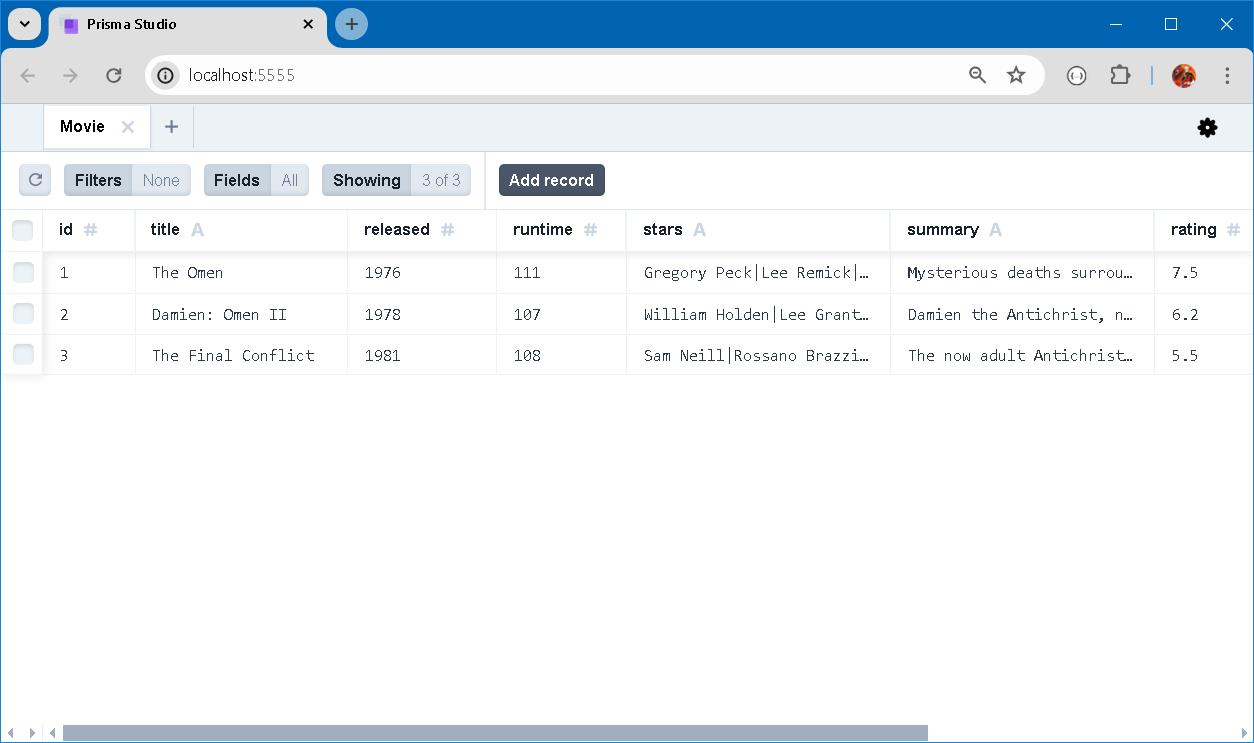
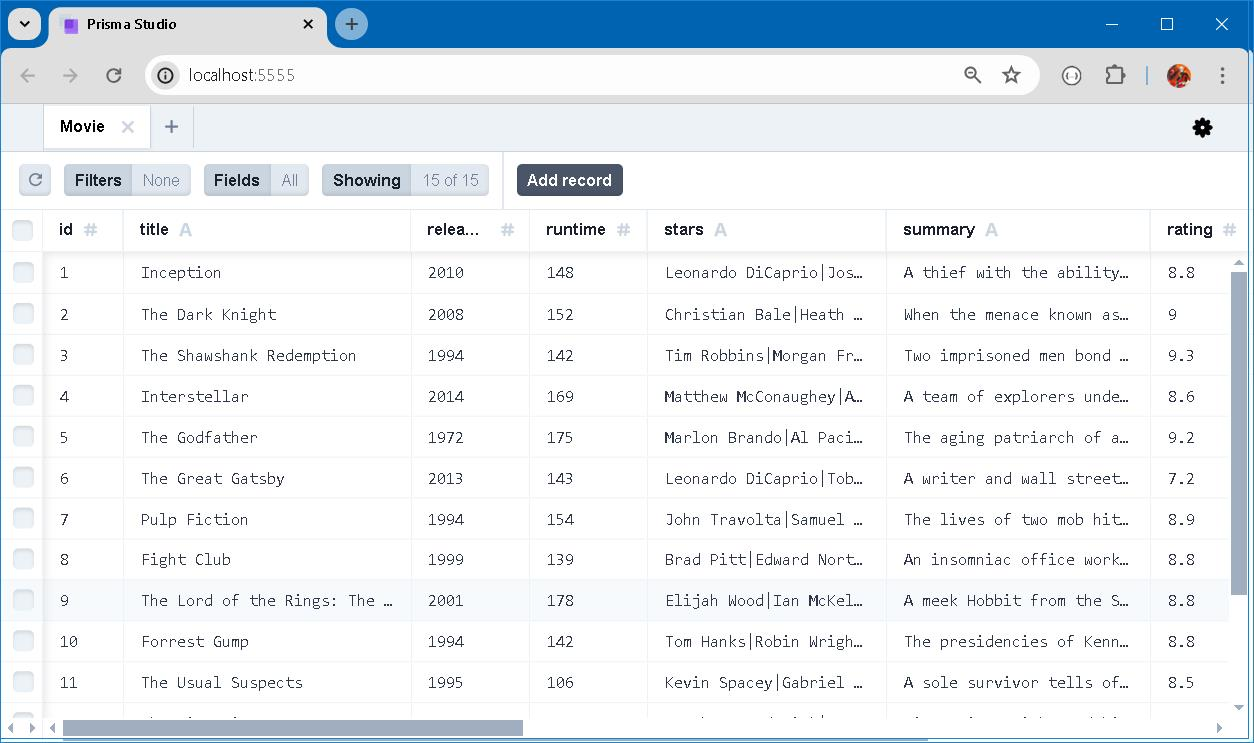
add om-orm folder

diff --git a/src/nodejs/om-orm/data/movieData.js b/src/nodejs/om-orm/data/movieData.js
@@ -1,32 +1,215 @@
 
 let movieData = [
-    {
-        title: 'The Omen',
-        released: 1976,
-        runtime: 111, 
-        stars: ['Gregory Peck', 'Lee Remick', 'Harvey Stephens'] ,
-        summary: 'Mysterious deaths surround an American ambassador. Could the child that he is raising actually be the Antichrist? The Devil\'s own son?',
-        rating: 7.5,
-        inStock: false
-    },
-    {
-        title: 'Damien: Omen II',
-        released: 1978,
-        runtime: 107, 
-        stars: ['William Holden', 'Lee Grant', 'Jonathan Scott-Taylor'] ,
-        summary: 'Damien the Antichrist, now about to turn thirteen years old, finally learns of his destiny under the guidance of an unholy disciple of Satan. Meanwhile dark forces begin to eliminate all those who suspect the child\'s true identity.',
-        rating: 6.2,
-        inStock: true
-    },
-    {
-        title: 'The Final Conflict',
-        released: 1981,
-        runtime: 108, 
-        stars: ['Sam Neill', 'Rossano Brazzi', 'Don Gordon'],
-        summary: 'The now adult Antichrist plots to eliminate his future divine opponent while a cabal of monks plot to stop him.', 
-        rating: 5.5,
-        inStock: true
-    },
-]
+  {
+    title: "Inception",
+    released: 2010,
+    runtime: 148,
+    stars: ["Leonardo DiCaprio", "Joseph Gordon-Levitt", "Elliot Page"],
+    summary: "A thief with the ability to enter people's dreams is given a task to plant an idea into a CEO's mind.",
+    rating: 8.8,
+    inStock: true,
+    director: "Christopher Nolan",
+    genre: "Sci-Fi",
+    country: "United States",
+    language: "English",
+    sequel: false
+  },
+  {
+    title: "The Dark Knight",
+    released: 2008,
+    runtime: 152,
+    stars: ["Christian Bale", "Heath Ledger", "Aaron Eckhart"],
+    summary: "When the menace known as the Joker wreaks havoc and chaos on the people of Gotham, Batman must accept one of the greatest psychological and physical tests of his ability to fight injustice.",
+    rating: 9.0,
+    inStock: true,
+    director: "Christopher Nolan",
+    genre: "Action",
+    country: "United States",
+    language: "English",
+    sequel: true
+  },
+  {
+    title: "The Shawshank Redemption",
+    released: 1994,
+    runtime: 142,
+    stars: ["Tim Robbins", "Morgan Freeman", "Bob Gunton"],
+    summary: "Two imprisoned men bond over several years, finding solace and eventual redemption through acts of common decency.",
+    rating: 9.3,
+    inStock: true,
+    director: "Frank Darabont",
+    genre: "Drama",
+    country: "United States",
+    language: "English",
+    sequel: false
+  },
+  {
+    title: "Interstellar",
+    released: 2014,
+    runtime: 169,
+    stars: ["Matthew McConaughey", "Anne Hathaway", "Jessica Chastain"],
+    summary: "A team of explorers undertakes a space journey through a wormhole in search of a new habitable planet.",
+    rating: 8.6,
+    inStock: true,
+    director: "Christopher Nolan",
+    genre: "Sci-Fi",
+    country: "United States",
+    language: "English",
+    sequel: false
+  },
+  {
+    title: "The Godfather",
+    released: 1972,
+    runtime: 175,
+    stars: ["Marlon Brando", "Al Pacino", "James Caan"],
+    summary: "The aging patriarch of an organized crime dynasty transfers control of his clandestine empire to his reluctant son.",
+    rating: 9.2,
+    inStock: true,
+    director: "Francis Ford Coppola",
+    genre: "Crime",
+    country: "United States",
+    language: "English",
+    sequel: true
+  },
+  {
+    title: "The Great Gatsby",
+    released: 2013,
+    runtime: 143,
+    stars: ["Leonardo DiCaprio", "Tobey Maguire", "Carey Mulligan"],
+    summary: "A writer and wall street trader, Nick, finds himself drawn to the past and lifestyle of his millionaire neighbor, Jay Gatsby.",
+    rating: 7.2,
+    inStock: true,
+    director: "Baz Luhrmann",
+    genre: "Drama",
+    country: "United States",
+    language: "English",
+    sequel: false
+  },
+  {
+    title: "Pulp Fiction",
+    released: 1994,
+    runtime: 154,
+    stars: ["John Travolta", "Samuel L. Jackson", "Uma Thurman"],
+    summary: "The lives of two mob hitmen, a boxer, a gangster's wife, and a pair of diner bandits intertwine in four tales of violence and redemption.",
+    rating: 8.9,
+    inStock: true,
+    director: "Quentin Tarantino",
+    genre: "Crime",
+    country: "United States",
+    language: "English",
+    sequel: false
+  },
+  {
+    title: "Fight Club",
+    released: 1999,
+    runtime: 139,
+    stars: ["Brad Pitt", "Edward Norton", "Helena Bonham Carter"],
+    summary: "An insomniac office worker and a devil-may-care soapmaker form an underground fight club that evolves into something much, much more.",
+    rating: 8.8,
+    inStock: true,
+    director: "David Fincher",
+    genre: "Drama",
+    country: "United States, Germany",
+    language: "English",
+    sequel: false
+  },
+  {
+    title: "The Lord of the Rings: The Fellowship of the Ring",
+    released: 2001,
+    runtime: 178,
+    stars: ["Elijah Wood", "Ian McKellen", "Orlando Bloom"],
+    summary: "A meek Hobbit from the Shire and eight companions set out on a journey to destroy the powerful One Ring and save Middle-earth from the Dark Lord Sauron.",
+    rating: 8.8,
+    inStock: true,
+    director: "Peter Jackson",
+    genre: "Adventure, Drama, Fantasy",
+    country: "United States, New Zealand",
+    language: "English",
+    sequel: true
+  },
+  {
+    title: "Forrest Gump",
+    released: 1994,
+    runtime: 142,
+    stars: ["Tom Hanks", "Robin Wright", "Gary Sinise"],
+    summary: "The presidencies of Kennedy and Johnson, the Vietnam War, the Watergate scandal, and other historical events unfold through the perspective of an Alabama man with an IQ of 75, whose only desire is to be reunited with his childhood sweetheart.",
+    rating: 8.8,
+    inStock: true,
+    director: "Robert Zemeckis",
+    genre: "Drama, Romance",
+    country: "United States",
+    language: "English",
+    sequel: false
+  },
+  {
+    title: "The Usual Suspects",
+    released: 1995,
+    runtime: 106,
+    stars: ["Kevin Spacey", "Gabriel Byrne", "Chazz Palminteri"],
+    summary: "A sole survivor tells of the twisty events leading up to a horrific gun battle on a boat, which began when five criminals met at a seemingly random police lineup.",
+    rating: 8.5,
+    inStock: true,
+    director: "Bryan Singer",
+    genre: "Crime, Mystery, Thriller",
+    country: "United States, Germany",
+    language: "English, Hungarian, Spanish, French",
+    sequel: false
+  },
+  {
+    title: "The Lion King",
+    released: 1994,
+    runtime: 88,
+    stars: ["Matthew Broderick", "Jeremy Irons", "James Earl Jones"],
+    summary: "Lion prince Simba and his father are targeted by his bitter uncle, who wants to ascend the throne himself.",
+    rating: 8.5,
+    inStock: true,
+    director: "Roger Allers, Rob Minkoff",
+    genre: "Animation, Adventure, Drama",
+    country: "United States",
+    language: "English, Swahili, Xhosa, Zulu",
+    sequel: true
+  },
+  {
+    title: "The Avengers",
+    released: 2012,
+    runtime: 143,
+    stars: ["Robert Downey Jr.", "Chris Evans", "Scarlett Johansson"],
+    summary: "Earth's mightiest heroes must come together and learn to fight as a team if they are going to stop the mischievous Loki and his alien army from enslaving humanity.",
+    rating: 8.0,
+    inStock: true,
+    director: "Joss Whedon",
+    genre: "Action, Adventure, Sci-Fi",
+    country: "United States",
+    language: "English, Russian",
+    sequel: true
+  },
+  {
+    title: "Back to the Future",
+    released: 1985,
+    runtime: 116,
+    stars: ["Michael J. Fox", "Christopher Lloyd", "Lea Thompson"],
+    summary: "A teenager is accidentally sent 30 years into the past in a time-traveling DeLorean invented by his eccentric scientist friend.",
+    rating: 8.5,
+    inStock: true,
+    director: "Robert Zemeckis",
+    genre: "Adventure, Comedy, Sci-Fi",
+    country: "United States",
+    language: "English",
+    sequel: true
+  },
+  {
+    title: "The Departed",
+    released: 2006,
+    runtime: 151,
+    stars: ["Leonardo DiCaprio", "Matt Damon", "Jack Nicholson"],
+    summary: "An undercover cop and a mole in the police attempt to identify each other while infiltrating an Irish gang in South Boston.",
+    rating: 8.5,
+    inStock: true,
+    director: "Martin Scorsese",
+    genre: "Crime, Drama, Thriller",
+    country: "United States, Hong Kong",
+    language: "English, Cantonese",
+    sequel: false
+  }
+]  
 
 export { movieData }

diff --git a/src/nodejs/om-orm/data/oldMovieData.js b/src/nodejs/om-orm/data/oldMovieData.js
@@ -1,0 +1,68 @@
+
+let movieData = [
+    {
+        title: 'The Omen',
+        released: 1976,
+        runtime: 111, 
+        stars: ['Gregory Peck', 'Lee Remick', 'Harvey Stephens'] ,
+        summary: 'Mysterious deaths surround an American ambassador. Could the child that he is raising actually be the Antichrist? The Devil\'s own son?',
+        rating: 7.5,
+        inStock: false
+    },
+    {
+        title: 'Damien: Omen II',
+        released: 1978,
+        runtime: 107, 
+        stars: ['William Holden', 'Lee Grant', 'Jonathan Scott-Taylor'] ,
+        summary: 'Damien the Antichrist, now about to turn thirteen years old, finally learns of his destiny under the guidance of an unholy disciple of Satan. Meanwhile dark forces begin to eliminate all those who suspect the child\'s true identity.',
+        rating: 6.2,
+        inStock: true
+    },
+    {
+        title: 'The Final Conflict',
+        released: 1981,
+        runtime: 108, 
+        stars: ['Sam Neill', 'Rossano Brazzi', 'Don Gordon'],
+        summary: 'The now adult Antichrist plots to eliminate his future divine opponent while a cabal of monks plot to stop him.', 
+        rating: 5.5,
+        inStock: true
+    },
+    {
+        title: "The Shawshank Redemption",
+        released: 1994,
+        runtime: 142,
+        stars: ["Tim Robbins", "Morgan Freeman", "Bob Gunton"],
+        summary: "Two imprisoned men bond over several years, finding solace and eventual redemption through acts of common decency.",
+        rating: 9.3,
+        inStock: true
+    },
+    {
+        title: "Inception",
+        released: 2010,
+        runtime: 148,
+        stars: ["Leonardo DiCaprio", "Joseph Gordon-Levitt", "Elliot Page"],
+        summary: "A thief who steals corporate secrets through the use of dream-sharing technology is given the inverse task of planting an idea into the mind of a CEO.",
+        rating: 8.8,
+        inStock: true
+    },
+    {
+        title: "The Dark Knight",
+        released: 2008,
+        runtime: 152,
+        stars: ["Christian Bale", "Heath Ledger", "Aaron Eckhart"],
+        summary: "When the menace known as the Joker wreaks havoc and chaos on the people of Gotham, Batman must accept one of the greatest psychological and physical tests of his ability to fight injustice.",
+        rating: 9.0,
+        inStock: true
+    },
+    {
+        title: "The Godfather",
+        released: 1972,
+        runtime: 175,
+        stars: ["Marlon Brando", "Al Pacino", "James Caan"],
+        summary: "The aging patriarch of an organized crime dynasty transfers control of his clandestine empire to his reluctant son.",
+        rating: 9.2,
+        inStock: false
+    }
+]
+
+export { movieData }

diff --git a/src/nodejs/om-orm/om/seed.js b/src/nodejs/om-orm/om/seed.js
@@ -1,23 +1,28 @@
-import 'dotenv/config'
 import { Repository, EntityId } from 'redis-om'
 import { redisClient } from './redisClient.js'
 import { movieSchema } from './movieSchema.js'
 import { movieData } from '../data/movieData.js'
 
 const movieRepository = new Repository(movieSchema, redisClient)
+await movieRepository.createIndex()
 
 async function main() {
    let response
    // Erase old data... 
-   //response = await redisClient.sendCommand(['ft.drop', `${process.env.REDIS_OM_PREFIX}index`])
+   console.log(`Removing index ${movieSchema.indexName}...`)
+   // Dropping an index and all accompanied documents 
+   response = await redisClient.sendCommand(['ft.drop', `${movieSchema.indexName}`])
+   // Redis-OM uses a string to keep track of index re-creation. 
+   response = await redisClient.sendCommand(['del', `${movieSchema.indexName}:hash`])
    
-   // To use search you have to build an index. If you don't, you'll get errors. To build an index, just call .createIndex on your repository:
+   // To re-create the index 
+   console.log(`Creating index ${movieSchema.indexName}...`)
    await movieRepository.createIndex()
 
    // Seed new data 
-   for (let i = 0; i < movieData.length; i++) {
+   for (let i = 0; i < movieData.length; i++) {  
      response = await movieRepository.save(movieData[i])
-     console.log(`movie id: ${response[EntityId]}`)     
+     console.log(`movie id: ${response[EntityId]}`)
    }
     console.log(`${movieData.length} record(s) created`) 
   }

diff --git a/src/nodejs/om-orm/om/movieSchema.js b/src/nodejs/om-orm/om/movieSchema.js
@@ -1,35 +1,21 @@
-import 'dotenv/config'
 import { Schema } from 'redis-om'
 
-/*
-    Imagine we're operating a video rental store. We've decided to represent each of the movies in our inventory using JSON documents that have the following structure:
-
-    {
-    "title": "The Matrix",
-    "released": 1999,
-    "runtime": 137,
-    "stars": [
-        "Keanu Reeves",
-        "Laurence Fishburne",
-        "Carrie-Ann Moss"
-    ],
-    "Summary": "A stranger leads computer hacker Neo to a forbidding underworld, he discovers the truth: the life he knows is the elaborate deception of an evil cyber-intelligence.",
-    rating: 8.7,
-    inStock: true
-    } 
-*/
-
-const movieSchema = new Schema(process.env.REDIS_OM_PREFIX + "movie", {
+const movieSchema = new Schema("moviedb:movie", {
         title: { type: 'string' },
         released: { type: 'number' }, 
         runtime: { type: 'number'}, 
         stars:  { type: 'string[]' },
         summary: { type: 'string' }, 
         rating: { type: 'number' },
-        inStock: { type: 'boolean' }
+        inStock: { type: 'boolean' },
+        director: { type: 'string' },
+        genre: { type: 'string' },
+        country: { type: 'string' },
+        language: { type: 'string' },
+        sequel: { type: 'boolean' }
     }, 
     {
-        dataStructure: process.env.REDIS_OM_DATASTRUCTURE
+        dataStructure: 'HASH'
     });
 
 export { movieSchema }
